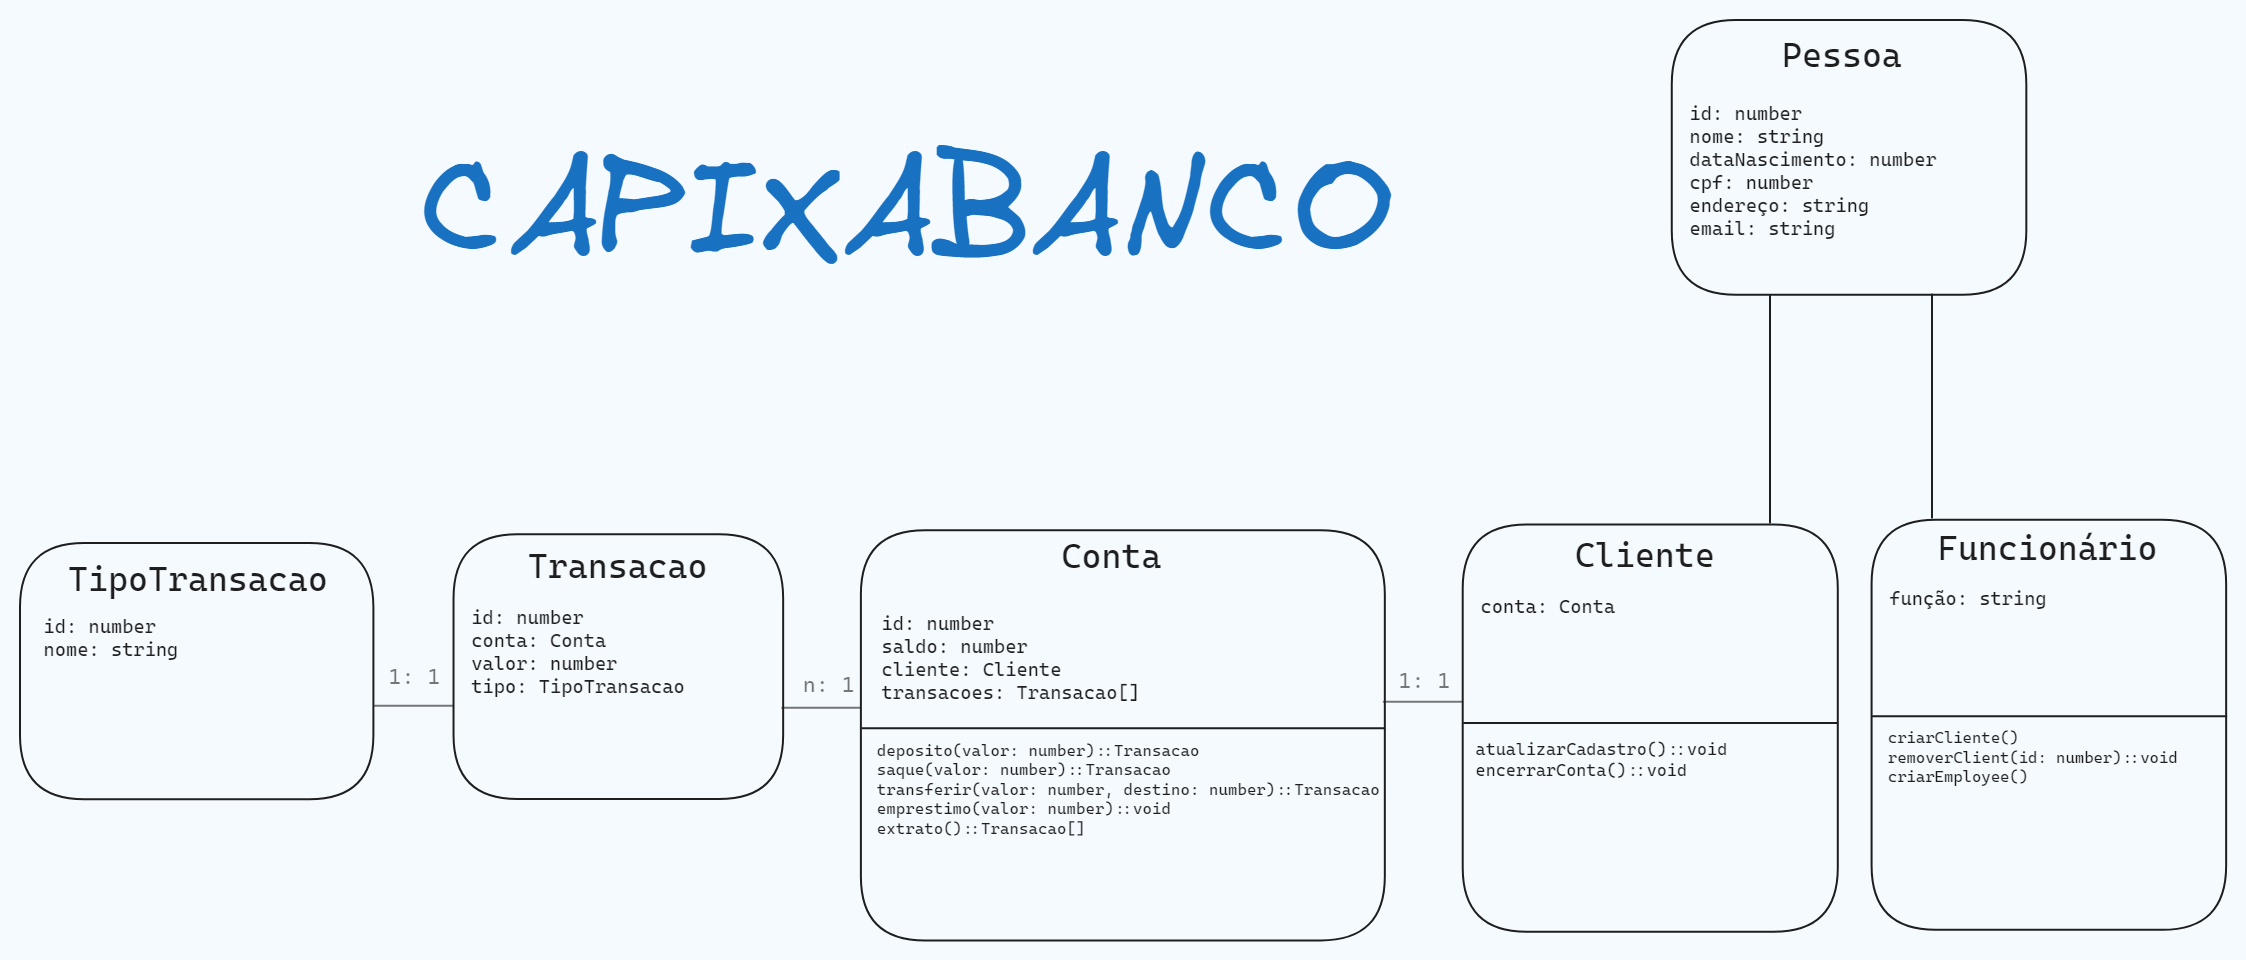
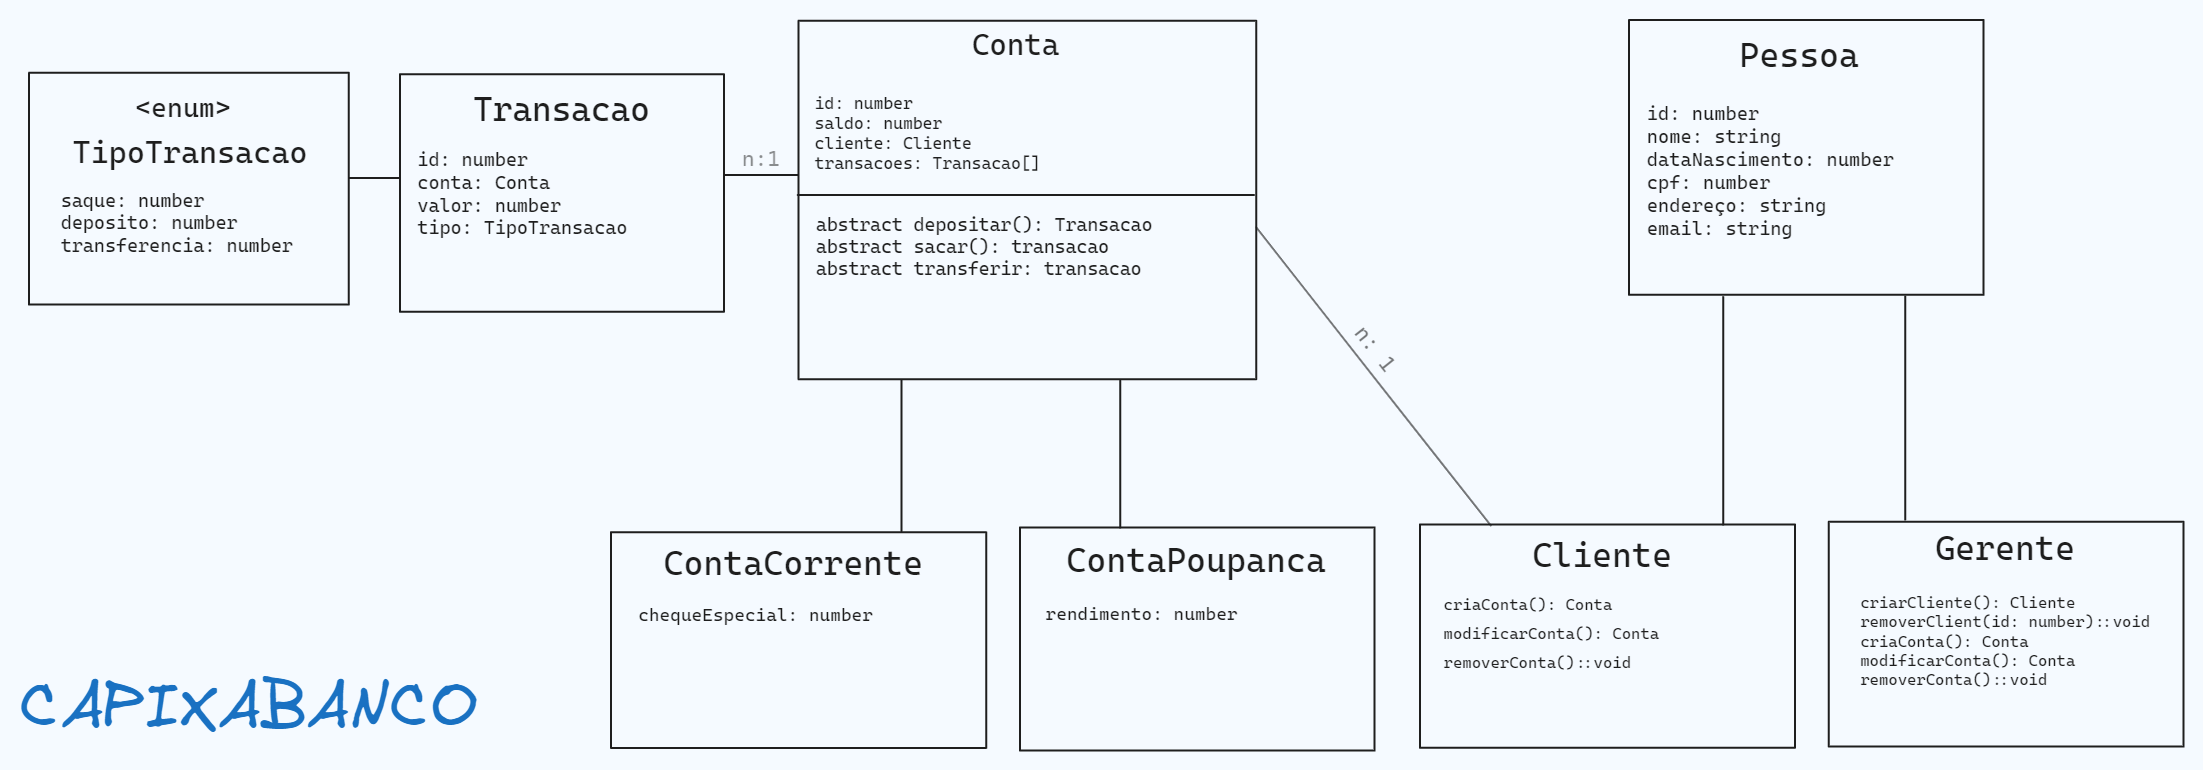
adiciona herança de classes e atualiza modelagem

diff --git a/src/cliente/cliente.model.ts b/src/cliente/cliente.model.ts
@@ -1,16 +1,9 @@
+import { Pessoa } from 'src/pessoa/pessoa.model';
 import { Conta } from '../conta/conta.model';
-
-export class Cliente {
-  nome: string;
-  id: number;
-  endereco: string;
-  telefone: string;
+export class Cliente extends Pessoa {
   contas: Conta[] = [];
 
   constructor(nome: string, id: number, endereco: string, telefone: string) {
-    this.nome = nome;
-    this.id = id;
-    this.endereco = endereco;
-    this.telefone = telefone;
+    super(nome, id, endereco, telefone);
   }
 }

diff --git a/src/gerente/gerente.model.ts b/src/gerente/gerente.model.ts
@@ -1,12 +1,6 @@
-import { Cliente } from 'src/cliente/cliente.model';
-
-export class Gerente {
-  nome: string;
-  id: number;
-  clientes: Cliente[] = [];
-
-  constructor(nome: string, id: number) {
-    this.nome = nome;
-    this.id = id;
+import { Pessoa } from 'src/pessoa/pessoa.model';
+export class Gerente extends Pessoa {
+  constructor(nome: string, id: number, endereco: string, telefone: string) {
+    super(nome, id, endereco, telefone);
   }
 }

diff --git a/src/conta/conta.model.ts b/src/conta/conta.model.ts
@@ -1,5 +1,4 @@
 import { Cliente } from 'src/cliente/cliente.model';
-// import { Transacao } from './Transacao';
 export enum TipoConta {
   CORRENTE = 'corrente',
   POUPANCA = 'poupanca',
@@ -10,7 +9,6 @@ export abstract class Conta {
   saldo: number;
   clienteId: Cliente['id'];
   tipo: TipoConta;
-  // transacoes: Transacao[] = [];
 
   constructor(id: number, saldo: number, clienteId: number, tipo: TipoConta) {
     this.id = id;

diff --git a/src/pessoa/pessoa.model.ts b/src/pessoa/pessoa.model.ts
@@ -1,0 +1,13 @@
+export class Pessoa {
+  nome: string;
+  id: number;
+  endereco: string;
+  telefone: string;
+
+  constructor(nome: string, id: number, endereco: string, telefone: string) {
+    this.nome = nome;
+    this.id = id;
+    this.endereco = endereco;
+    this.telefone = telefone;
+  }
+}
